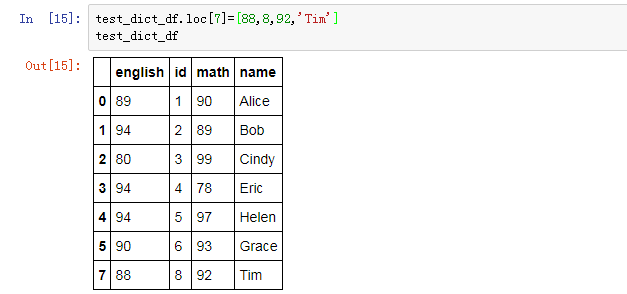
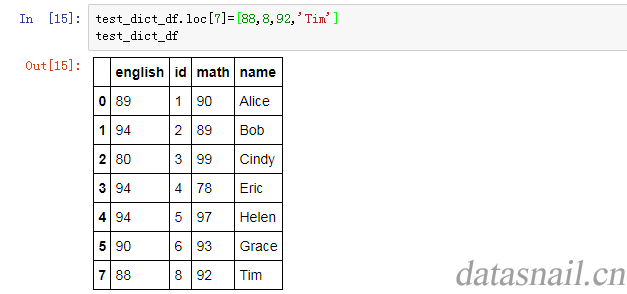
pandas selection

Changed region(s): [[0.7273, 0.8878, 1.0, 0.9796]]

diff --git a/postimg/python/loc_etc/sy.py b/postimg/python/loc_etc/sy.py
@@ -1,0 +1,34 @@
+#!/usr/local/bin/python3
+#coding=gbk
+#the main code is from blog:https://www.cnblogs.com/txw1958/archive/2012/07/20/python3-watermark.html
+import os, io, sys, re, time, json, random
+from PIL import Image, ImageEnhance, ImageFilter
+
+def watermark(img_source, img_water, img_new):
+    try:
+        im = Image.open(img_source)
+        wm = Image.open(img_water)
+        layer = Image.new('RGBA', im.size, (0,0,0,0))
+        layer.paste(wm, (im.size[0] - wm.size[0], im.size[1] - wm.size[1]))
+        newIm = Image.composite(layer, im, layer)
+        newIm.save(img_new)
+
+    except Exception as e:
+        print(">>>>>>>>>>> WaterMark EXCEPTION:  " + str(e))
+        return False
+    else:
+        return True
+
+if __name__ == '__main__':
+    if len(sys.argv) >=2:
+        if sys.argv[1] == '-p':#
+            for i in range(2,len(sys.argv)):
+                watermark(str(sys.argv[i]),"H:\\blog\\postimg\\sy.png",str(sys.argv[i]))
+        elif len(sys.argv) == 2: # one arg, the src_img name equals name of dest_img  
+            watermark(str(sys.argv[1]), "H:\\blog\\postimg\\sy.png", str(sys.argv[1]))
+        elif len(sys.argv) == 3:#two args that water_img could be omitted
+            watermark(str(sys.argv[1]), "H:\\blog\\postimg\\sy.png", str(sys.argv[2]))
+        elif len(sys.argv) == 4:
+            watermark(str(sys.argv[1]), str(sys.argv[3]), str(sys.argv[2]))
+    else:
+        print('use  "python '+sys.argv[0]+' src_img [dest_img] [water_img]" to start!')
